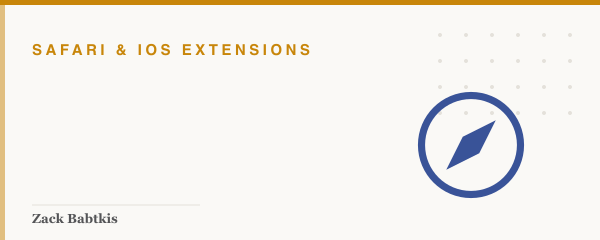
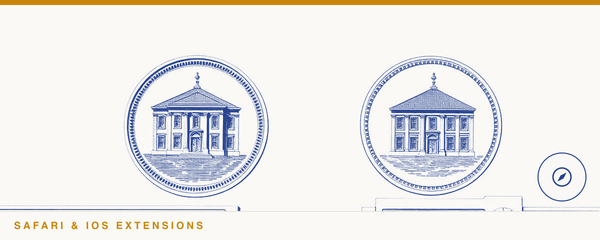
feat: engraving plate on every guide, article hero and index card
Fifteen generated plates, one per guide, each drawing that article's idea
as period apparatus. Every plate is forced into the site's two colors in
post: the generation becomes an alpha mask and navy is painted through it
onto cream, so nothing the model decided about color reaches a page. The
category glyph is stamped as a seal and the topic sits in a caption strip
added below the art.

Replaces the per-topic thumbnails on the guides index, which were
identical within each section, and adds the same plate as a banner at the
top of each article.

Three findings from actually looking at the output rather than trusting
the prompt: subjects that carry writing by nature (stamps, ledgers, tags,
nameplates, numbered grids) make the model render garbage lettering no
matter what the prompt forbids, so those five subjects were rewritten to
text-free apparatus; the remaining margin lettering is removed by
generating tall and cropping the plate margins off; and the caption strip
is extended onto the canvas rather than painted over the art, because
overlaying it either covered the subject or, with a biased crop, pushed
the subject out of frame entirely.

Changed region(s): [[0.0, 0.0292, 0.54, 1.0], [0.6, 0.2333, 1.0, 0.9042], [0.39, 0.8458, 0.42, 0.875]]

diff --git a/components/article.tsx b/components/article.tsx
@@ -67,6 +67,16 @@ export function ArticleLayout({
 
       <section className="section">
         <div className="wrap">
+          {/* Decorative: the plate carries no information the prose doesn't,
+              so it stays out of the accessibility tree. */}
+          {/* eslint-disable-next-line @next/next/no-img-element */}
+          <img
+            className="article-plate"
+            src={`/guide-art/${slug.replace(/^\/|\/$/g, '').replace(/\//g, '--')}.png`}
+            alt=""
+            width={1200}
+            height={480}
+          />
           <div className="prose article-prose">{children}</div>
         </div>
       </section>

diff --git a/app/globals.css b/app/globals.css
@@ -725,6 +725,16 @@ h3 {
   max-width: var(--measure);
 }
 
+/* The engraving plate runs to the wider measure, above the narrower prose */
+.article-plate {
+  display: block;
+  width: 100%;
+  max-width: var(--measure);
+  height: auto;
+  margin: 0 0 var(--space-xl);
+  border: 1px solid var(--rule);
+}
+
 /* Articles read at a narrower measure (~68ch) than marketing pages */
 .article-prose {
   max-width: 37rem;
